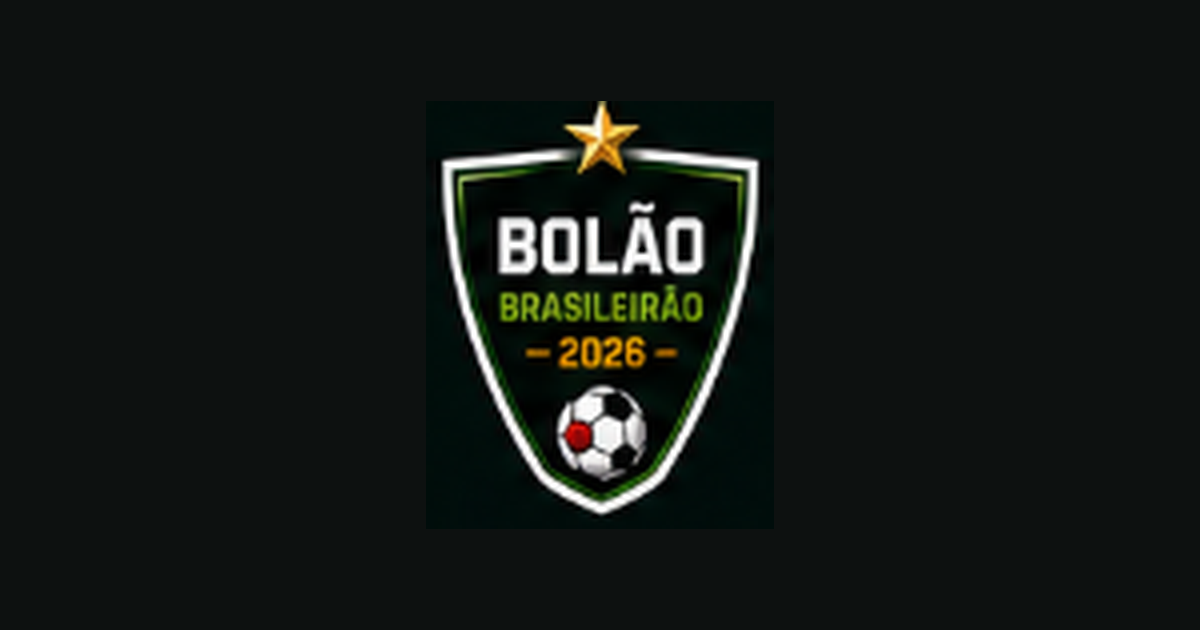
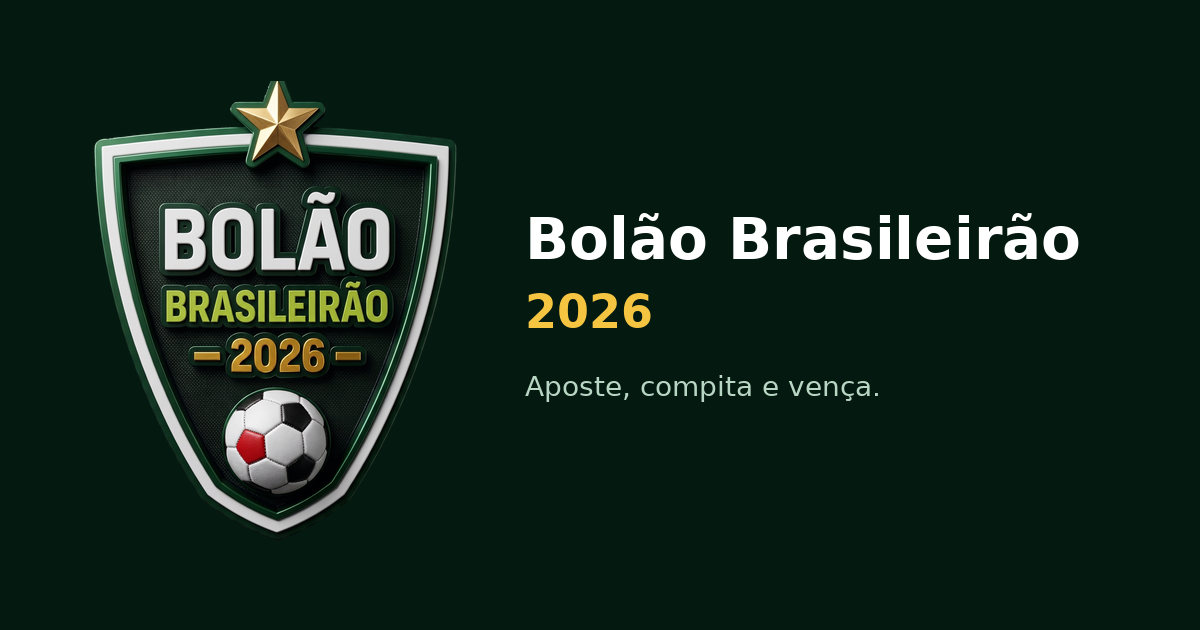
feat(branding): implementa identidade visual oficial do Projeto JARVIS
- aplica logo oficial Série 4.1
- adiciona ativos PNG HD transparentes
- atualiza favicon e ícones PWA
- integra nova identidade visual nas telas principais
- padroniza estrutura de branding da aplicação

Changed region(s): [[0.0617, 0.1206, 0.925, 0.8444]]

diff --git a/docs/BRAND_GUIDELINES.md b/docs/BRAND_GUIDELINES.md
@@ -24,3 +24,7 @@ Preservar proporções, contraste e área de respiro. Não distorcer, recolorir 
 ## Fonte temporária oficial — v6.6.0
 
 Até a conclusão do SVG mestre, o arquivo `assets/brand/jarvis-approved.png` é a única fonte visual autorizada da marca JARVIS. Ele corresponde exatamente ao PNG aprovado e fornecido pelo responsável do projeto. Nenhuma reconstrução, estilização ou geração por IA deve substituir este arquivo.
+
+## Ativo oficial temporário — PNG HD
+
+A v6.6.0 utiliza `assets/brand/jarvis-logo-hd.png`, reconstruído diretamente do arquivo aprovado **Escudo Bolão 2026.png**. O fundo quadriculado incorporado ao arquivo de origem foi removido tecnicamente para gerar transparência real, sem redesenhar a marca. Todos os ativos rasterizados da aplicação derivam desta mesma matriz.
